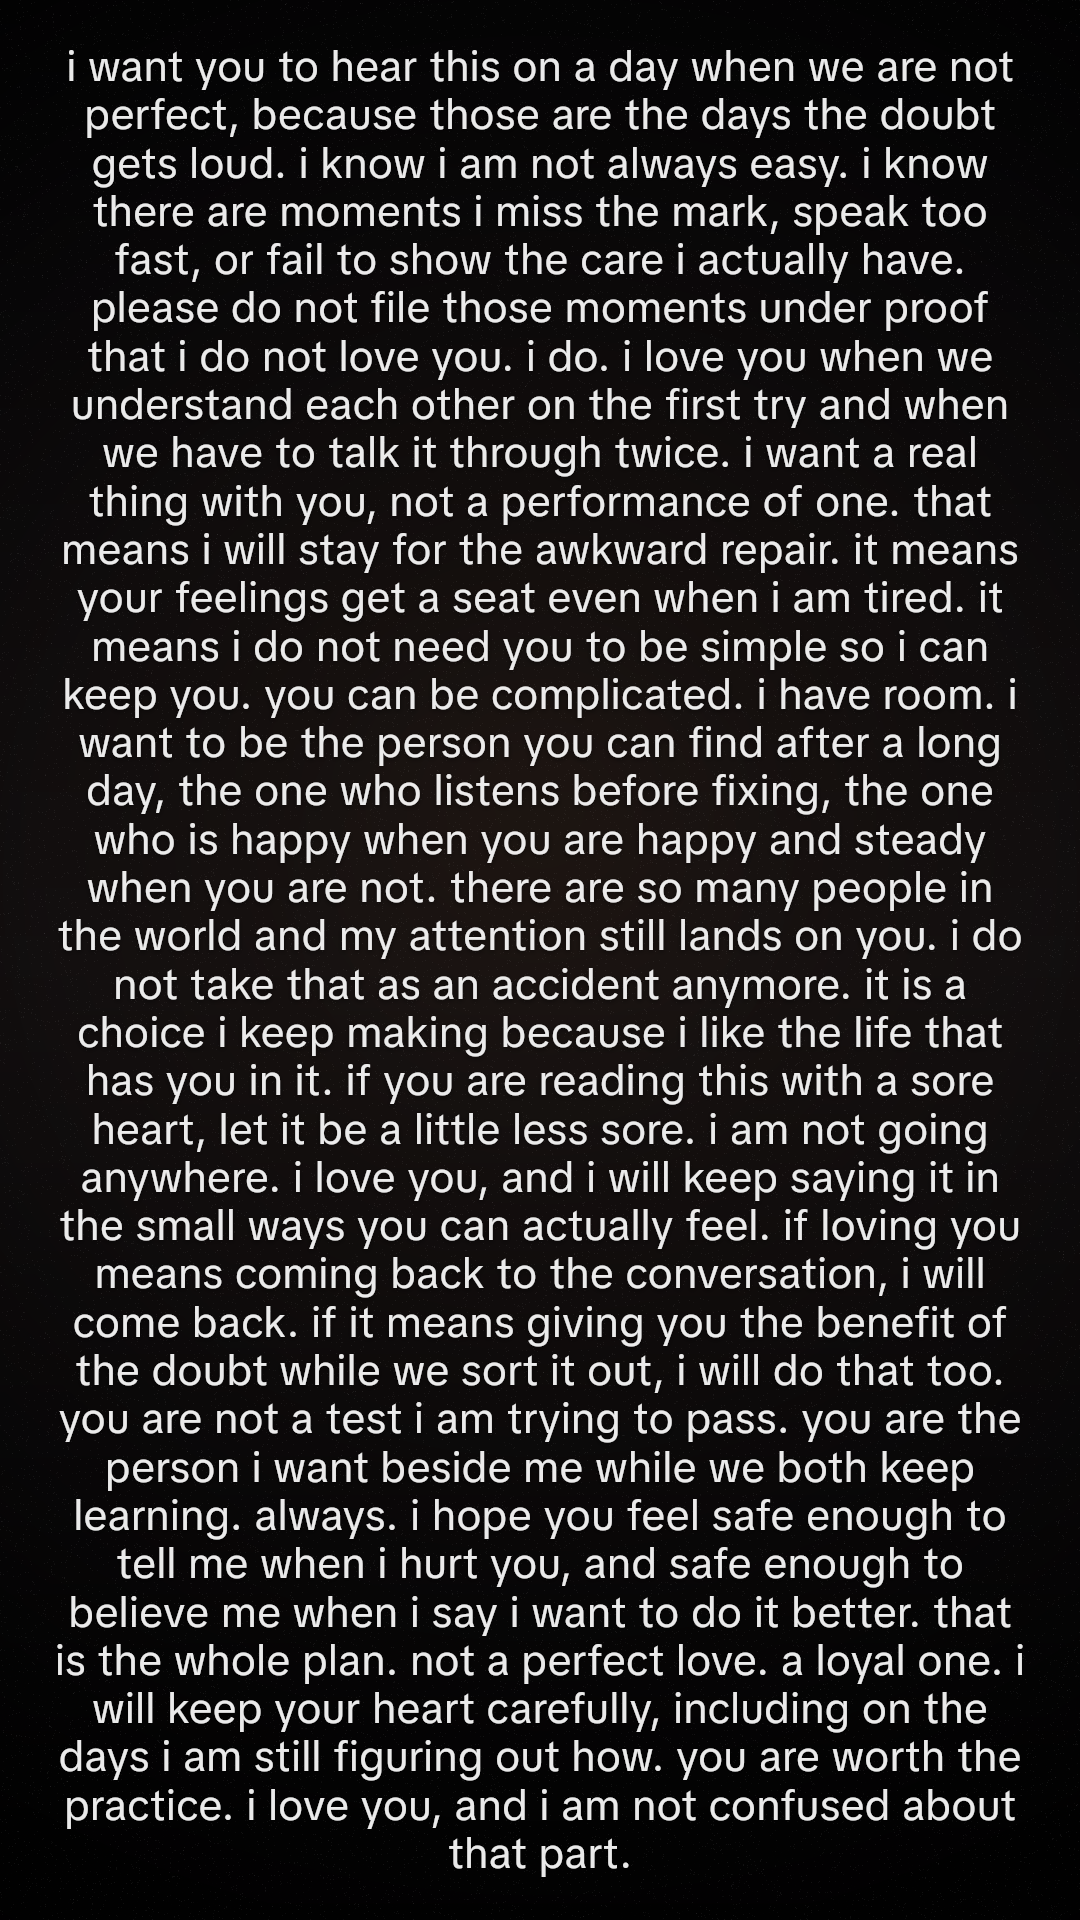
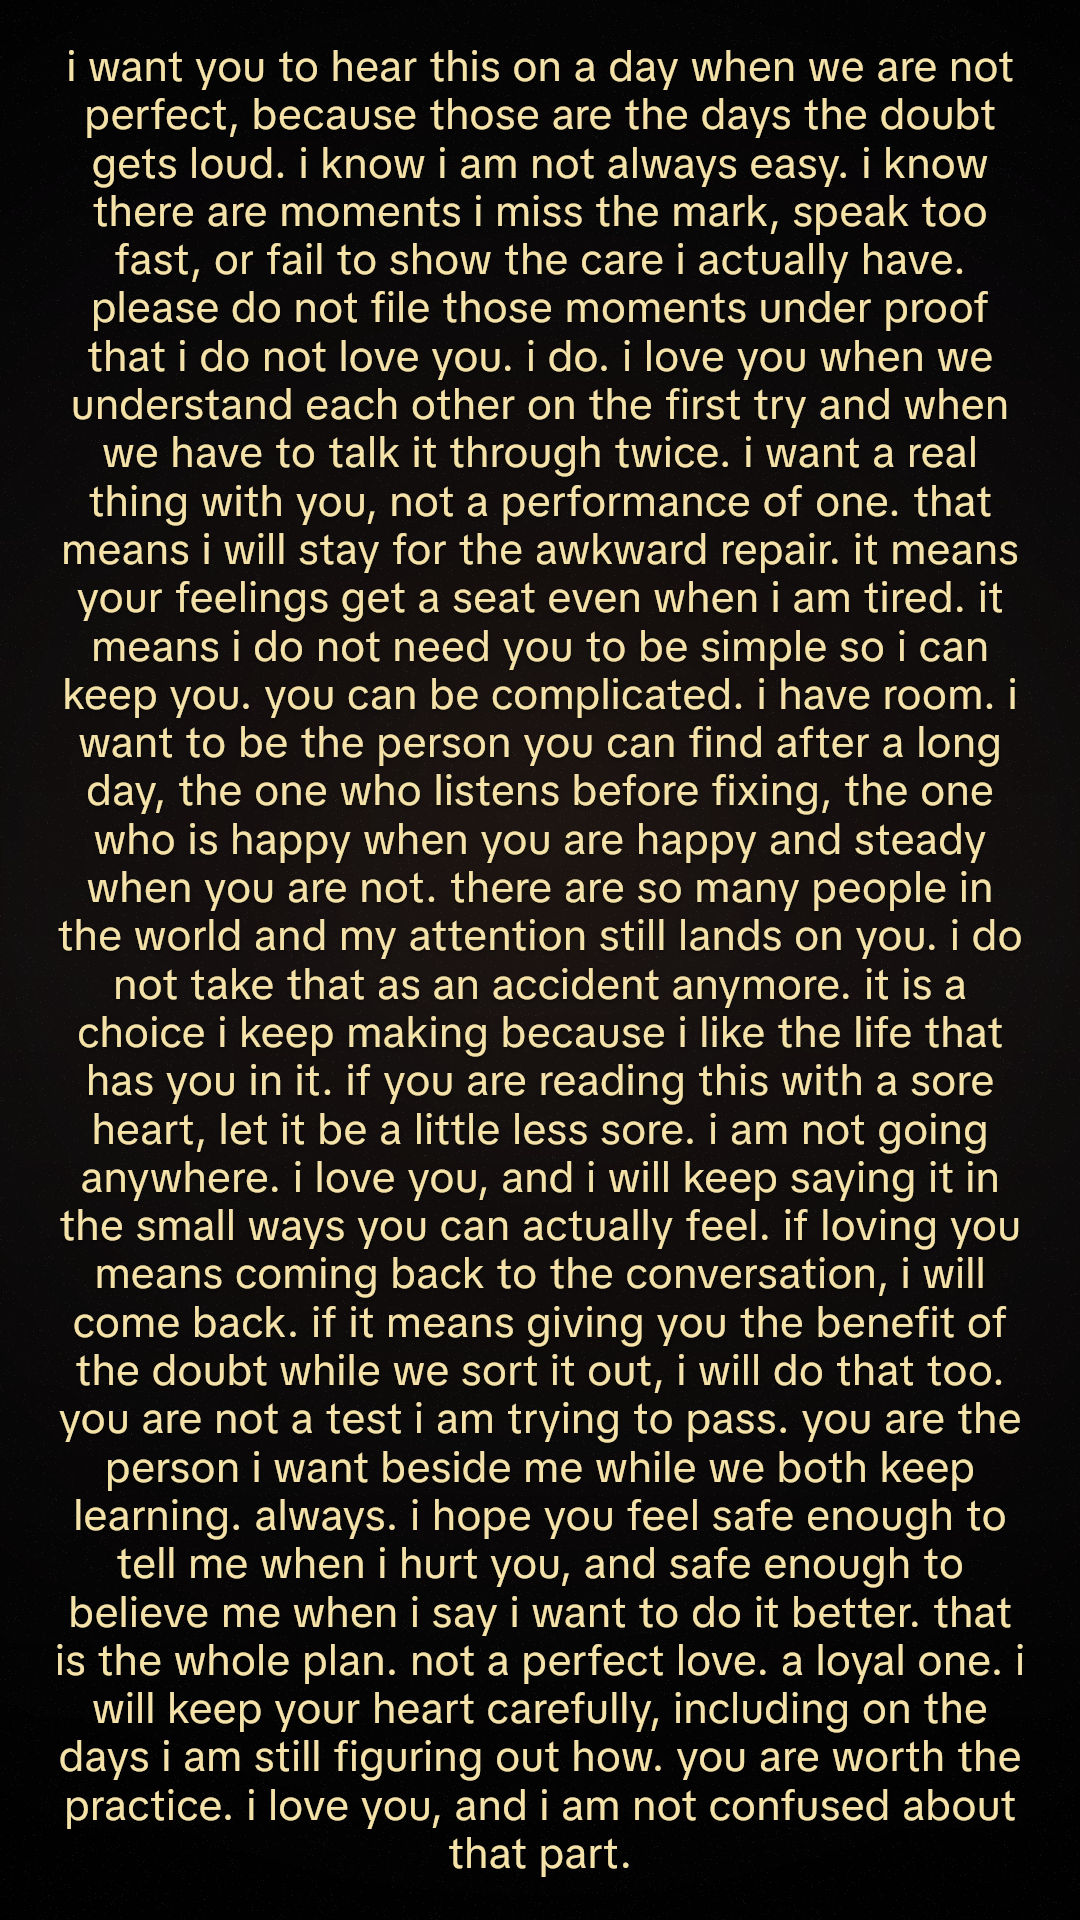
Paint Dark Love Letter text in pale yellow. (#39)
Quotes, headlines, and short, medium, and long letters now share #F4E2A8 so the video no longer mixes white letters with yellow quotes.

Changed region(s): [[0.0611, 0.0312, 0.9472, 0.9688]]

diff --git a/app/page.tsx b/app/page.tsx
@@ -10421,11 +10421,12 @@ const imageFrameTitleLine1 = 'Questions to ask your';
                                     videoOverlayCaption,
                                     videoTemplate7TextSource
                                   )}{' '}
-                                  seconds, 1080×1920. A quote sits large in the center, in pale
-                                  yellow, and holds so it does not flash. A short letter is larger
-                                  than a long one, with room around it, and stays up longer so it
-                                  can be read. A long letter fills the frame in small white type.
-                                  The words stay on screen the whole time.
+                                  seconds, 1080×1920. Quotes, headlines, and letters share the
+                                  same pale yellow. A quote sits large in the center and holds so
+                                  it does not flash. A short letter is larger than a long one, with
+                                  room around it, and stays up longer so it can be read. A long
+                                  letter fills the frame in small yellow type. The words stay on
+                                  screen the whole time.
                                 </p>
                               </div>
                             ) : (

diff --git a/app/lib/video-template-7-love-letter.ts b/app/lib/video-template-7-love-letter.ts
@@ -32,10 +32,12 @@ export type VideoTemplate7Length = 'random' | 'quote' | 'short' | 'medium' | 'lo
 export type VideoTemplate7LetterBand = 'short' | 'medium' | 'long';
 
 const FONT = '"TikTok Sans", system-ui, -apple-system, sans-serif';
-/** White at about 92% so the letter stays soft on a dark frame. */
-const LETTER_COLOR = 'rgba(255, 255, 255, 0.92)';
-/** Pale yellow / beige used on the short-quote posts. */
-const QUOTE_COLOR = '#F4E2A8';
+/**
+ * Warm pale yellow for every line in the template: quotes, headlines,
+ * signatures, and short, medium, and long letters. Opaque so small type
+ * stays readable on the darkened brick.
+ */
+const TEXT_COLOR = '#F4E2A8';
 
 const LETTER_MARGIN_X = 0.05;
 const LETTER_MARGIN_Y = 0.022;
@@ -310,7 +312,7 @@ function drawLetterLines(
   ctx.font = `400 ${fontSize}px ${FONT}`;
   const blockH = letterBlockHeight(lines, lineHeight);
   let y = centerY - blockH / 2 + lineHeight / 2;
-  ctx.fillStyle = LETTER_COLOR;
+  ctx.fillStyle = TEXT_COLOR;
   ctx.shadowColor = 'rgba(0, 0, 0, 0.72)';
   ctx.shadowBlur = Math.max(2.2, fontSize * 0.09);
   ctx.shadowOffsetX = 0;
@@ -450,7 +452,7 @@ export function paintVideoTemplate7Overlay(
         frameHeight,
         layout.fontSize,
         layout.lineHeight,
-        QUOTE_COLOR,
+        TEXT_COLOR,
         frameHeight * 0.5
       );
     } else {

diff --git a/docs/video-template-7/README.md b/docs/video-template-7/README.md
@@ -5,9 +5,9 @@ Spill It video tab, template id 7. A 1080×1920 clip: a dim, almost-still backgr
 How long the clip holds depends on the text:
 
 - A short quote holds for 5 seconds, in large pale yellow type, so a 10-word line does not flash.
-- A short letter (about 100–150 words) holds for 8 seconds. The type is larger than a long letter, with wide margins, so it does not look cramped or lost in the frame.
-- A medium letter (about 150–230 words) holds for 10 seconds, between those two sizes.
-- A long letter keeps the original 5 second hold. It fills the frame in small white type at about 92% opacity, with a soft shadow, about 5% side margins, and a line height of 1.15.
+- A short letter (about 100–150 words) holds for 8 seconds. The type is the same pale yellow, larger than a long letter, with wide margins, so it does not look cramped or lost in the frame. A headline line and any signature sit in that same yellow.
+- A medium letter (about 150–230 words) holds for 10 seconds, between those two sizes, in the same yellow.
+- A long letter keeps the original 5 second hold. It fills the frame in small pale yellow type (`#F4E2A8`, the same color as the quotes), with a soft shadow, about 5% side margins, and a line height of 1.15.
 
 ![Short quote](short-quote.png)
 
@@ -15,7 +15,7 @@ How long the clip holds depends on the text:
 
 ![Long letter](long-letter.png)
 
-The stills above are rendered from `paintVideoTemplate7Overlay`. The quote is a new playful one-liner. The short letter opens with a headline line and a blank line. The long letter is one of the new longer notes. An older long-letter reference is still in `letter.png`, and an older quote reference is in `quote.png`.
+The stills above are rendered from `paintVideoTemplate7Overlay`. The quote is a new playful one-liner. The short letter opens with a headline line and a blank line. The long letter is one of the new longer notes. Quotes, headlines, and letters all use the same pale yellow (`#F4E2A8`). An older long-letter reference is still in `letter.png` (white type, from before this color change), and an older quote reference is in `quote.png`. `side-by-side.png` is that same older pair.
 
 ## How to use
 
